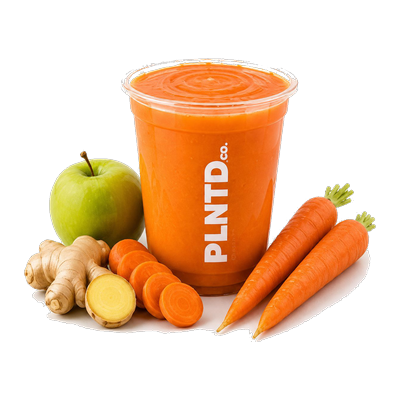
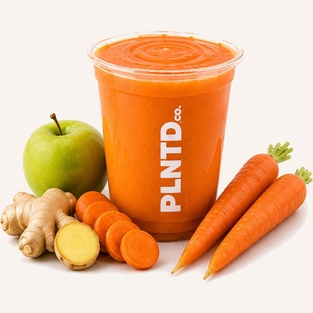
Menu: reframe new juice images to match others (frame-filling, cream bg)
Carrot Glow, Citrus Boost, Sunrise Carrot now use opaque cream
background at 313px filling the card like the other juices, instead
of padded transparent PNGs that rendered smaller.

diff --git a/data.js b/data.js
@@ -30,9 +30,9 @@ window.MENU = [
     items: [
       { name: 'Garden Green',      ingr: 'cucumber, celery, kale', price: 6.00, color: '#3E7A1E', img: 'assets/drinks/juice-garden-green.png?v=6',
         allergens: [], nutrition: { kj: 210, kcal: 50, fat: 0.3, satFat: 0, carbs: 11, sugars: 6, fibre: 2, protein: 2, sodium: 30 }, noAddedSugar: true },
-      { name: 'Carrot Glow',       ingr: 'carrot, apple, ginger', price: 6.00, color: '#CA3D00', img: 'assets/drinks/juice-carrot-glow.png?v=7',
+      { name: 'Carrot Glow',       ingr: 'carrot, apple, ginger', price: 6.00, color: '#CA3D00', img: 'assets/drinks/juice-carrot-glow.png?v=8',
         allergens: [], nutrition: { kj: 460, kcal: 110, fat: 0.3, satFat: 0, carbs: 26, sugars: 20, fibre: 3, protein: 1, sodium: 35 }, noAddedSugar: true },
-      { name: 'Sunrise Carrot',    ingr: 'carrot, orange, lemon', price: 6.00, color: '#CA3D00', img: 'assets/drinks/juice-sunrise-carrot.png?v=7',
+      { name: 'Sunrise Carrot',    ingr: 'carrot, orange, lemon', price: 6.00, color: '#CA3D00', img: 'assets/drinks/juice-sunrise-carrot.png?v=8',
         allergens: [], nutrition: { kj: 550, kcal: 130, fat: 0.3, satFat: 0, carbs: 31, sugars: 25, fibre: 4, protein: 2, sodium: 30 }, noAddedSugar: true },
       { name: 'Daily Cleanse',     ingr: 'apple, carrot, ginger', price: 6.00, color: '#3E7A1E', img: 'assets/drinks/juice-daily-cleanse.png?v=7',
         allergens: [], nutrition: { kj: 630, kcal: 150, fat: 0.4, satFat: 0, carbs: 37, sugars: 30, fibre: 4, protein: 1, sodium: 12 }, noAddedSugar: true },
@@ -40,7 +40,7 @@ window.MENU = [
         allergens: [], nutrition: { kj: 590, kcal: 140, fat: 0.3, satFat: 0, carbs: 35, sugars: 28, fibre: 3, protein: 0, sodium: 5 }, noAddedSugar: true },
       { name: 'Apple Zing',        ingr: 'apple, mint, ginger', price: 6.00, color: '#3E7A1E', img: 'assets/drinks/juice-apple-zing.png?v=6',
         allergens: [], nutrition: { kj: 590, kcal: 140, fat: 0.3, satFat: 0, carbs: 35, sugars: 28, fibre: 3, protein: 0, sodium: 5 }, noAddedSugar: true },
-      { name: 'Citrus Boost',      ingr: 'orange, lemon, carrot', price: 6.00, color: '#DF9A00', img: 'assets/drinks/juice-citrus-boost.png?v=7',
+      { name: 'Citrus Boost',      ingr: 'orange, lemon, carrot', price: 6.00, color: '#DF9A00', img: 'assets/drinks/juice-citrus-boost.png?v=8',
         allergens: [], nutrition: { kj: 550, kcal: 130, fat: 0.3, satFat: 0, carbs: 31, sugars: 25, fibre: 4, protein: 2, sodium: 25 }, noAddedSugar: true },
       { name: 'Vitamin C Blast',   ingr: 'orange, pineapple, lemon', price: 6.00, color: '#DF9A00', img: 'assets/drinks/juice-vitamin-c-blast.png?v=6',
         allergens: [], nutrition: { kj: 710, kcal: 170, fat: 0.4, satFat: 0, carbs: 41, sugars: 35, fibre: 4, protein: 2, sodium: 8 }, noAddedSugar: true },
